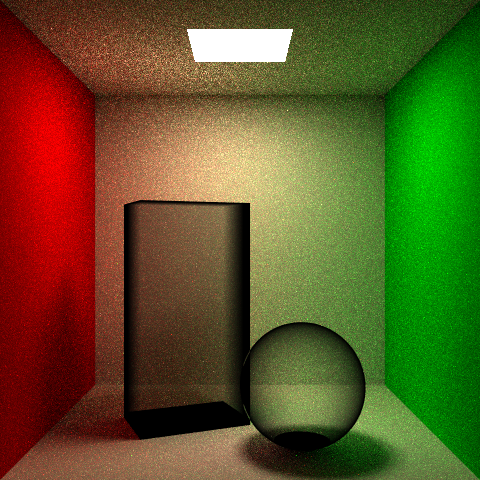
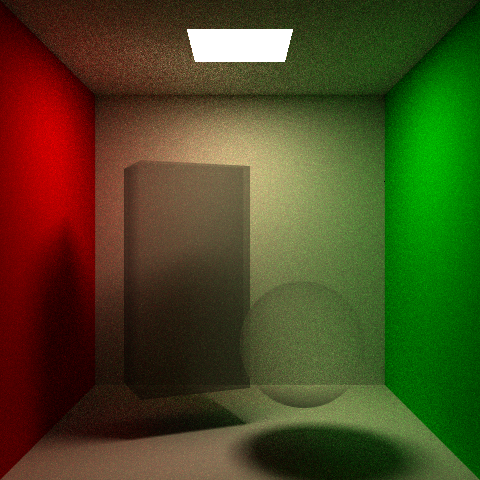
Final project

diff --git a/cse168finalfinal.html b/cse168finalfinal.html
@@ -1,0 +1,71 @@
+---
+layout: default
+title: Jack Yang
+---
+<link rel="stylesheet/less" href="/less/main.less" />
+<link rel="stylesheet/less" href="/less/gallery.less" />
+<link rel="stylesheet/less" href="/less/albums.less" />
+<script src="//cdnjs.cloudflare.com/ajax/libs/less.js/2.5.1/less.min.js"></script>
+<script type="text/javascript" src="//cdnjs.cloudflare.com/ajax/libs/jquery/2.1.3/jquery.min.js"></script>
+<div class="main" style="z-index:0">
+	<div style="text-align:center">
+		<a href="/"><span>
+			<h1 id="title" style="z-index:1"> jy.</h1>
+			<div id="logo"></div>
+		</span></a>
+	</div>
+	<div class="cs">
+		<h1>Single-Scattering Volume Rendering Project</h1>
+		<h2>
+			Computer Graphics II<br>
+			UC San Diego (CSE 168)
+		</h2>
+		<p style="width:60vw">For my final project in CSE 168 I have implemented a new integrator that handles volumes. Building off
+		the work I did for <a href="/cse168final.html">my proposal</a>, I used the professor's class lecture on volume rendering to inform my calculations 
+		of out- and in-scattering: Functionally, the integrator is modification of the Monte Carlo path tracer used for the previous homeworks, with a Modified Phone BRDF and Cosine Sampling.
+		Absorption and in-scattering are handled in a linear function that uses a defined constant maximum extinction coefficient and albedo.
+		For the phase function (utilized in the process of sampling and calculating the in-scattering) I used the Henyey-Greenstein Phase Function.</p>
+		   <br><br>
+		   <div style=" width:80vw; justify-content: left;">
+			<img src="imgs/graphics/cornellvolume.png" style="width: 20vw;margin-left: 5vw;"><br>
+			<p3 style="position:relative;font-style: italic;left:3vw">A modified Cornell scene, showcasing transmittance and volume rendering.</p3>
+		   </div>
+		   <br><br><p style="width:60vw">
+		Unlike the original Monte Carlo Path Tracer, my new Volume Path Tracer works as follows:
+		<ol style="width:60vw">
+		<li>For each pixel, cast several initial rays and check to see if it hits any object in the scene.
+		</li><li>If the ray hits an object, check if the material is defined as that of a volume (has extinction & albedo). If it's not a volume, path trace as usual.
+		</li><li>If the ray hits a volume, cast an additional ray from the intersection point and in the same direction until a non-volume surface or the other end of the volume is reached. Record distance traveled.
+		</li><li>Finally, if the ray has not hit a non-volume surface yet, cast a ray from the last intersection point and check for intersection, calculate direct lighting, and send value back up the chain of calls.
+		</li><li>At each intersection, before returning, calculate the influence of absorption / scattering using the Beer-Lambert Law, and calculate the in-scattering based on a small loop that samples directions around 
+		the intersection point. The Henyey-Greenstein phase function is included in these calculations.
+		</ol>
+		<br>
+		</p>
+		<p style="width:60vw">
+		I went online found a smoke asset from the OpenVDB site, and importing it into Blender, I was able to set the threshold to convert the volume into a mesh.
+		Exporting this into an .obj file, I was able to render the image in my volume integrator.
+		</p><br><br>
+		   <div style=" width:80vw; justify-content: left;">
+			<img src="imgs/graphics/blend2.png" style="height: 20vw;margin-left: 5vw;">
+			<img src="imgs/graphics/blend1.png" style="height: 20vw;"><br>
+			<img src="imgs/graphics/rats4.png" style="height:20vw;object-fit:scale-down;margin-left: 5vw;">
+		   </div><p style="width:60vw">
+			<p3 style="position:relative;font-style: italic;left:3vw">The final scene, rendered at 100spp with an extinction coefficient of 0.3 and an albedo of 0.2.</p3>
+		</p><p style="width:60vw">
+			Though I learned a great deal about volume rendering, I was unable to implement it very well in my program. Had I time enough, some things I would attempt to address in my project would be:
+			<ul style="width:60vw">
+				<li>Importing and using OpenVDB libraries in my project. Though the implementation of OpenVDB libraries in my project would have improved the realism of the smoke a great deal, I 
+					realized this late in my project and was at a loss to where to begin to implement this. My initial idea of rendering the mesh of a volume in the image ended up being the most I could accomplish.
+				</li>
+				<li>
+					Using the GGX BRDF and sampling strategies discussed in class. As I started my final project before I had the chance to go back and fully ensure that my HW4 implementation of the GGX PDF and BRDF was 
+					complete, I decided against using it. I feel that GGX would have helped me get closer to the specific greasy metallic sheen of the skull portal on the original album art, rather than the matte material
+					seen in the image.
+				</li>
+			</ul>
+			<p>Regardless, many thanks to Prof. Ramamoorthi and the course staff of CSE168 for leading an engaging and challenging class.</p>
+		</p>
+	<script src="https://cdnjs.cloudflare.com/ajax/libs/lightbox2/2.11.1/js/lightbox.js"></script>
+	<script src="/albums.js"></script>
+</div></div>

diff --git a/cse168final.html b/cse168final.html
@@ -34,7 +34,7 @@ title: Jack Yang
 		   From Blender I have exported an .obj file and modified the program from the previous homeworks to read said file.
 		</p><br><br>
 		   <div style=" width:80vw; justify-content: left;">
-			<img src="imgs/graphics/cornellVolume.png" style="width: 40vw;margin-left: 5vw;">
+			<img src="imgs/graphics/cornellabsorption.png" style="width: 40vw;margin-left: 5vw;">
 		   </div><p style="width:60vw">
 		   As far as the beginnings of rendering the smoke, I have been working on an absorption function. The algorithm currently handles volumes by
 		   continuing to cast the ray if the material intersected is marked as part of a volume, and marking the distance traveled within the volume.
